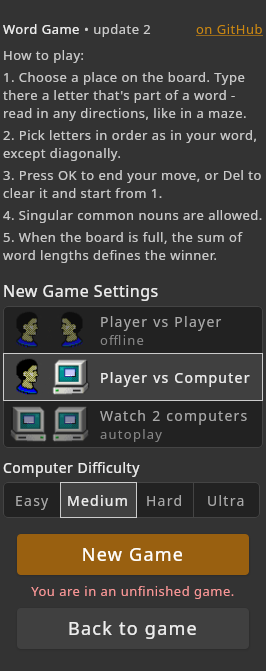
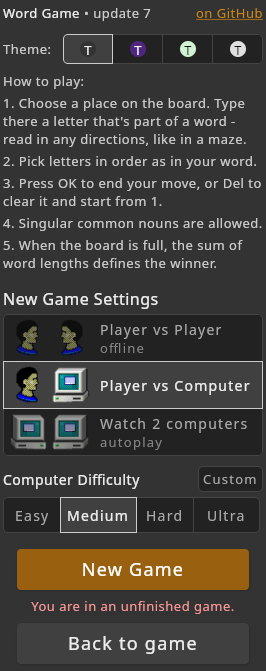
Readme update, new visual examples

Changed region(s): [[0.0, 0.0, 0.9925, 0.9836], [0.5414, 0.0, 0.5714, 0.0596]]

diff --git a/README.md b/README.md
@@ -1,6 +1,6 @@
 # Word Game
 
-A language puzzle. 
+A language puzzle. For Android, desktop, and browser. 
 
 1. Choose a place on the board. Type there a letter that's part of a word - read in any directions, like in a maze.
 2. Pick letters in order as in your word, except diagonally.
@@ -11,6 +11,14 @@ A language puzzle.
 [<img src="example/example_1.png"/>](example/example_1.png)
 [<img src="example/example_2.png"/>](example/example_2.png)
 [<img src="example/example_3.png"/>](example/example_3.png)
+
+* Click a previously played word to see its definition on Wiktionary
+* For a fine tuned level of challenge, use Custom difficulty in settings
+* Choose a color theme in settings
+
+Browser version and Android app:
+
+[<img src="example/example_4.png"/>](example/example_4.png)
 
 
 ## Example:
@@ -361,7 +369,7 @@ Signing setup:
 * Put your `keystore.jks` to the project's root folder for signing the app.
 * Create a `signing.properties` in the project's root folder with `keystore.jks` credentials:
 ```
-signingStoreLocation=../keystore.jks
+signingStoreLocation=keystore.jks
 signingStorePassword=<keystore.jks password>
 signingKeyAlias=<keystore.jks alias>
 signingKeyPassword=<keystore.jks key password>
@@ -421,10 +429,11 @@ The deployable game folder contents hosted on GitHub Pages of user `alex-vt` in 
 
 ## Development
 
-Tech keywords: Kotlin, Gradle, Jetpack Compose Multiplatform
+Tech stack: Kotlin, Compose Multiplatform
 
 Target platforms: Android, Desktop, JS/Web/Browser
 
+Build system: Gradle
 
 ## License
 
